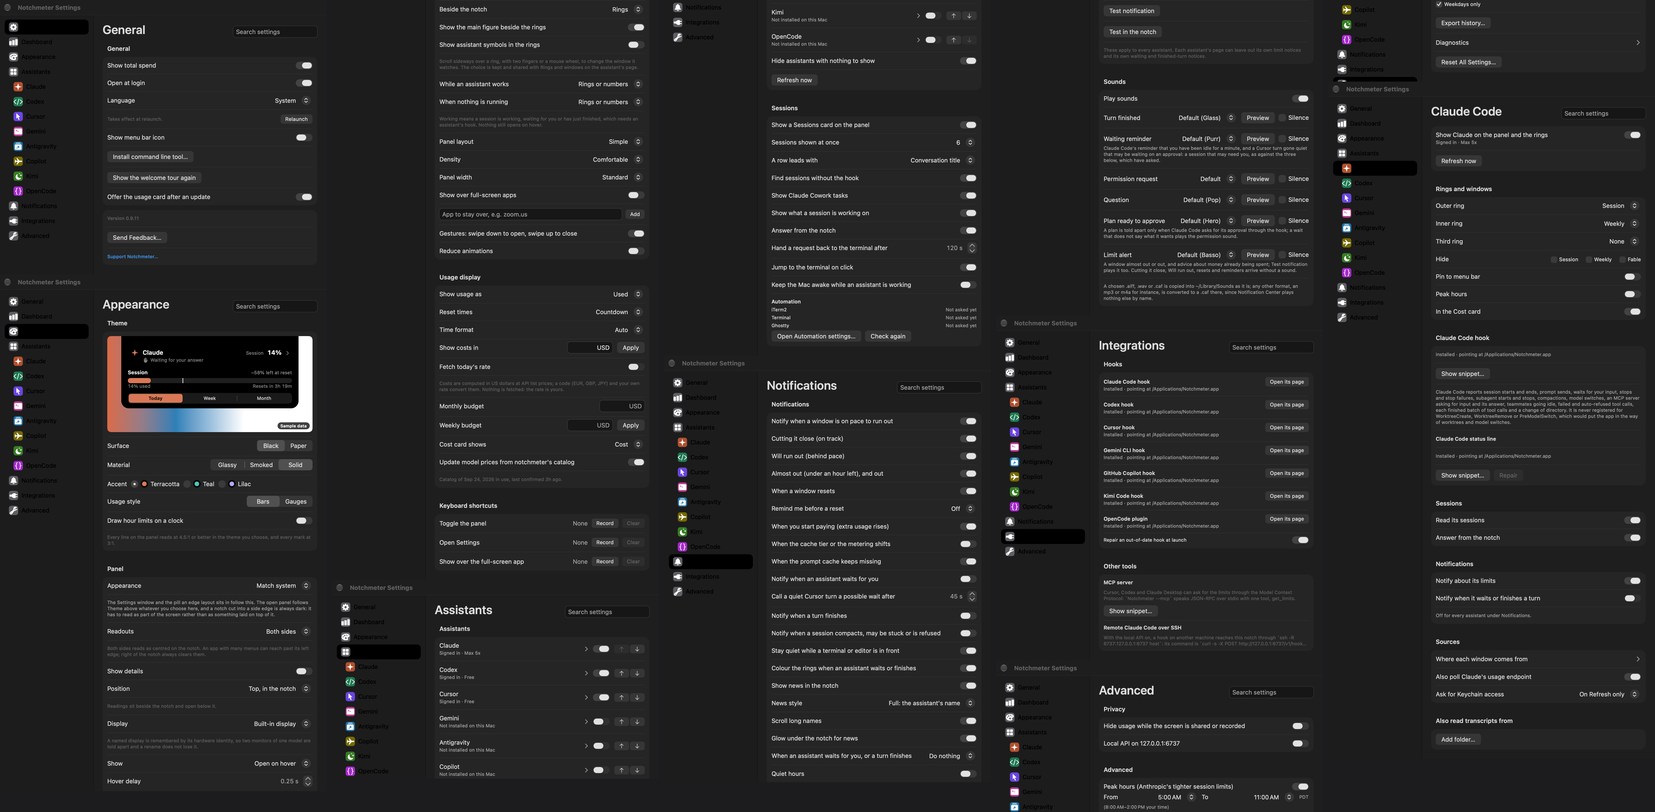
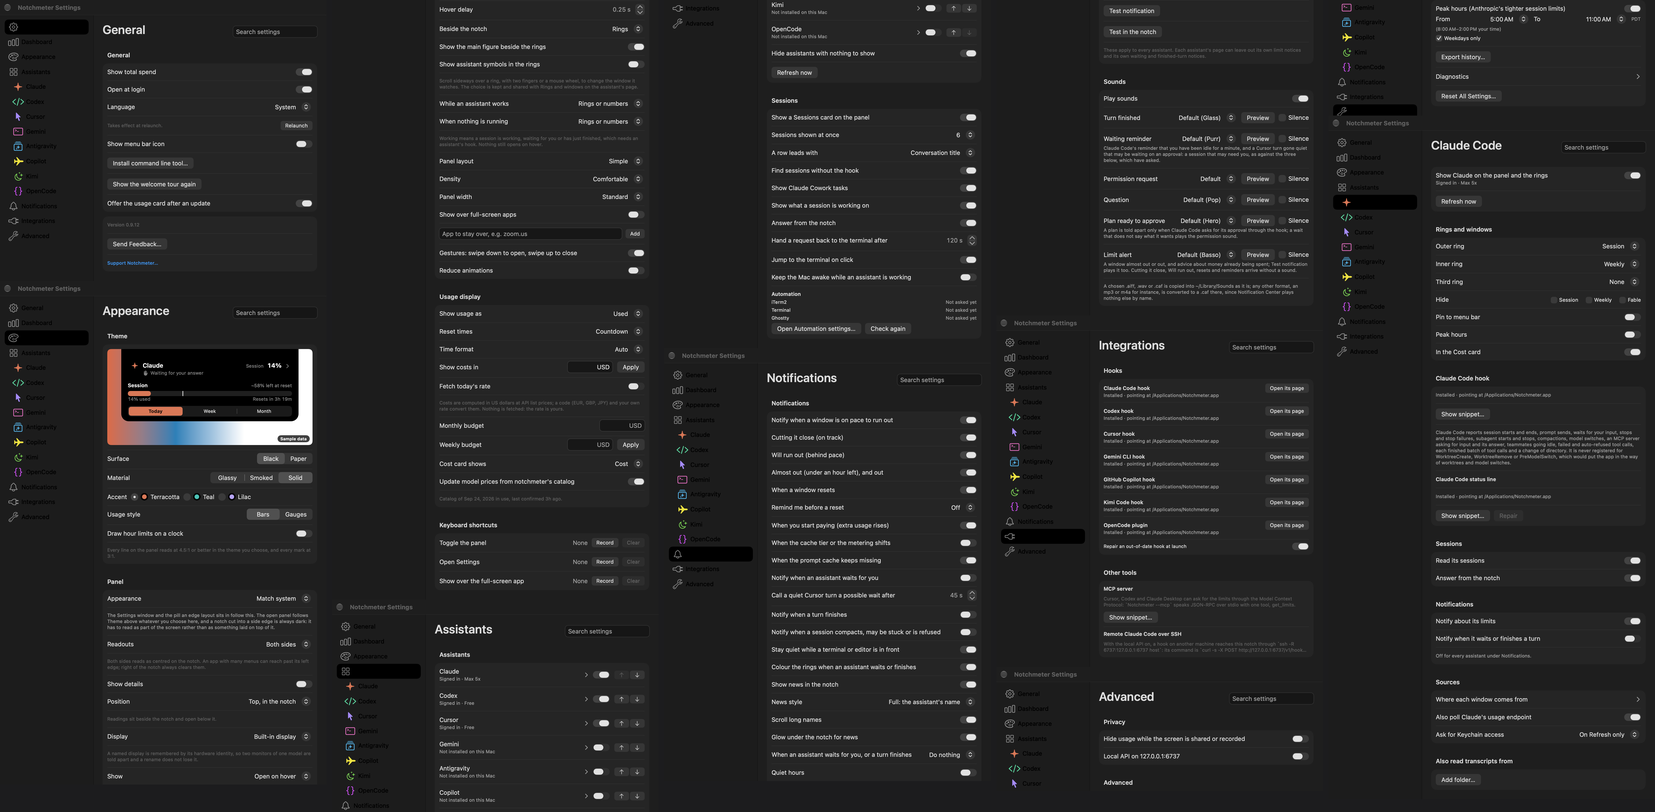
Notchmeter 0.9.12
Claude-Session: https://claude.ai/code/session_01BmUk8Pcie3UzytbtYBUh3s

diff --git a/site/guides/index.html b/site/guides/index.html
@@ -52,27 +52,27 @@
       <a class="guide-card" href="claude-code-cost-estimate-vs-bill.html">
         <span class="q">Why your Claude Code cost estimate doesn't match your bill</span>
         <span class="what">Every rule behind the estimate, its primary sources, and the seven places it is known to differ from what Anthropic bills.</span>
-        <span class="when">24 September 2026 · Tested on Notchmeter 0.9.11</span>
+        <span class="when">24 September 2026 · Tested on Notchmeter 0.9.12</span>
       </a>
       <a class="guide-card" href="will-you-run-out-before-the-reset.html">
         <span class="q">Will you run out before the window resets?</span>
         <span class="what">Pace instead of percentage, a run-out range from your own recent hours, and what Claude's peak hours change.</span>
-        <span class="when">24 September 2026 · Tested on Notchmeter 0.9.11</span>
+        <span class="when">24 September 2026 · Tested on Notchmeter 0.9.12</span>
       </a>
       <a class="guide-card" href="which-assistant-should-get-this-task.html">
         <span class="q">Which assistant should get this task?</span>
         <span class="what">Switch models before tools, wait when the reset is close, and route by the room each plan has left.</span>
-        <span class="when">24 September 2026 · Tested on Notchmeter 0.9.11</span>
+        <span class="when">24 September 2026 · Tested on Notchmeter 0.9.12</span>
       </a>
       <a class="guide-card" href="prompt-cache-cost.html">
         <span class="q">How much is your prompt cache actually costing you?</span>
         <span class="what">What a cache miss costs against a hit, the four causes Claude Code reports, and the tier shift nobody mentions.</span>
-        <span class="when">24 September 2026 · Tested on Notchmeter 0.9.11</span>
+        <span class="when">24 September 2026 · Tested on Notchmeter 0.9.12</span>
       </a>
       <a class="guide-card" href="cursor-copilot-antigravity-limits.html">
         <span class="q">Cursor, Copilot and Antigravity limits in one place</span>
         <span class="what">Three vendors, three ideas of what a limit is: what each figure is, where it comes from, and what is never shown as zero.</span>
-        <span class="when">24 September 2026 · Tested on Notchmeter 0.9.11</span>
+        <span class="when">24 September 2026 · Tested on Notchmeter 0.9.12</span>
       </a>
     </div>
 
@@ -81,12 +81,12 @@
       <a class="guide-card" href="claude-code-notifications-not-working.html">
         <span class="q">Claude Code notifications not working?</span>
         <span class="what">Fix Claude Code's own notifications first, then what a hook adds, how to fix one that went quiet, and when not to install it.</span>
-        <span class="when">24 September 2026 · Tested on Notchmeter 0.9.11</span>
+        <span class="when">24 September 2026 · Tested on Notchmeter 0.9.12</span>
       </a>
       <a class="guide-card" href="monitor-coding-agents-without-config-writes.html">
         <span class="q">Monitoring coding agents without letting an app write to your config</span>
         <span class="what">The meters write nothing; the hook is added only on your click, after a backup. What each tier can know.</span>
-        <span class="when">24 September 2026 · Tested on Notchmeter 0.9.11</span>
+        <span class="when">24 September 2026 · Tested on Notchmeter 0.9.12</span>
       </a>
     </div>
 
@@ -95,7 +95,7 @@
       <a class="guide-card" href="macos-agent-notch-apps-compared.html">
         <span class="q">Every macOS agent-notch app compared (2026)</span>
         <span class="what">Ten other apps, their licences, prices and star counts as of 24 September 2026, and where each one beats Notchmeter.</span>
-        <span class="when">24 September 2026 · Tested on Notchmeter 0.9.11</span>
+        <span class="when">24 September 2026 · Tested on Notchmeter 0.9.12</span>
       </a>
     </div>
   </div>

diff --git a/site/guides/monitor-coding-agents-without-config-writes.html b/site/guides/monitor-coding-agents-without-config-writes.html
@@ -47,7 +47,7 @@
       <p class="lede">Most apps that watch coding agents do it by putting a command into the agent's settings file, and several do it on first launch without asking. That file also holds your permissions, your hooks and your status line. Here is what you can know without anything being written, what a hook adds, and exactly what is written, where, when you decide to add one.</p>
       <ul class="meta-strip">
         <li>Published <time datetime="2026-09-24">24 September 2026</time></li>
-        <li class="stamp">Tested on Notchmeter 0.9.11</li>
+        <li class="stamp">Tested on Notchmeter 0.9.12</li>
         <li>Other apps' READMEs read 2026-09-24</li>
       </ul>
     </div>

diff --git a/site/guides/macos-agent-notch-apps-compared.html b/site/guides/macos-agent-notch-apps-compared.html
@@ -47,7 +47,7 @@
       <p class="lede">At least ten apps now put coding agents in or beside the MacBook notch, every one of them released or updated this year. Notchmeter is one of them, and this page is ours, so read it with that in mind. It is written to be the fair one: every app below does something better than Notchmeter does, and its entry says what.</p>
       <ul class="meta-strip">
         <li>Published <time datetime="2026-09-24">24 September 2026</time></li>
-        <li class="stamp">Tested on Notchmeter 0.9.11</li>
+        <li class="stamp">Tested on Notchmeter 0.9.12</li>
         <li>Stars read from GitHub on 2026-09-24</li>
       </ul>
     </div>

diff --git a/site/guides/claude-code-cost-estimate-vs-bill.html b/site/guides/claude-code-cost-estimate-vs-bill.html
@@ -47,7 +47,7 @@
       <p class="lede">The dollar figure in Claude Code's <code>/usage</code>, in its status line and in Notchmeter's Cost card is worked out on your Mac from token counts and a price table. It is an estimate by construction. Here is exactly how Notchmeter's is built, where it comes from, and every place it is known to part company with the bill.</p>
       <ul class="meta-strip">
         <li>Published <time datetime="2026-09-24">24 September 2026</time></li>
-        <li class="stamp">Tested on Notchmeter 0.9.11</li>
+        <li class="stamp">Tested on Notchmeter 0.9.12</li>
         <li>Sources read 2026-09-01</li>
       </ul>
     </div>

diff --git a/site/guides/cursor-copilot-antigravity-limits.html b/site/guides/cursor-copilot-antigravity-limits.html
@@ -47,7 +47,7 @@
       <p class="lede">Three vendors, three ideas of what a limit is. Cursor bills a cycle in dollars, GitHub counts AI credits by the month, and Google meters Antigravity and Gemini CLI in quota windows with no money in them at all. Here is how each is read, what each figure actually is, and how they end up side by side.</p>
       <ul class="meta-strip">
         <li>Published <time datetime="2026-09-24">24 September 2026</time></li>
-        <li class="stamp">Tested on Notchmeter 0.9.11</li>
+        <li class="stamp">Tested on Notchmeter 0.9.12</li>
         <li>Vendor terms read 2026-09-20 and 2026-09-24</li>
       </ul>
     </div>

diff --git a/site/guides/prompt-cache-cost.html b/site/guides/prompt-cache-cost.html
@@ -47,7 +47,7 @@
       <p class="lede">Prompt caching is why a long Claude Code session costs a fraction of what its token count suggests. It is also where some of the day's most expensive turns hide: a cache miss writes back what the cache already held, at a write rate, instead of reading it at a tenth of the input price.</p>
       <ul class="meta-strip">
         <li>Published <time datetime="2026-09-24">24 September 2026</time></li>
-        <li class="stamp">Tested on Notchmeter 0.9.11</li>
+        <li class="stamp">Tested on Notchmeter 0.9.12</li>
         <li>Rates from Anthropic's pricing page, 2026-09-01</li>
       </ul>
     </div>

diff --git a/site/guides/claude-code-notifications-not-working.html b/site/guides/claude-code-notifications-not-working.html
@@ -47,7 +47,7 @@
       <p class="lede">When Claude Code stops for a permission and nothing tells you, the fix is usually in your terminal, not in another app. Start there. If you then want more than a banner, this is what a hook adds, how to fix one that has gone quiet, and when you are better off without it.</p>
       <ul class="meta-strip">
         <li>Published <time datetime="2026-09-24">24 September 2026</time></li>
-        <li class="stamp">Tested on Notchmeter 0.9.11</li>
+        <li class="stamp">Tested on Notchmeter 0.9.12</li>
         <li>Claude Code docs read 2026-09-24</li>
       </ul>
     </div>

diff --git a/site/guides/which-assistant-should-get-this-task.html b/site/guides/which-assistant-should-get-this-task.html
@@ -47,7 +47,7 @@
       <p class="lede">If you pay for more than one coding assistant, the question before a long job is rarely "which is best at this". It is "which of them can afford it right now". That second question has an answer you can compute, and this is how Notchmeter computes it.</p>
       <ul class="meta-strip">
         <li>Published <time datetime="2026-09-24">24 September 2026</time></li>
-        <li class="stamp">Tested on Notchmeter 0.9.11</li>
+        <li class="stamp">Tested on Notchmeter 0.9.12</li>
         <li>Rules from Advisor.swift</li>
       </ul>
     </div>

diff --git a/site/guides/will-you-run-out-before-the-reset.html b/site/guides/will-you-run-out-before-the-reset.html
@@ -47,7 +47,7 @@
       <p class="lede">A percentage says how much is gone. It does not say whether the rest will last. Here are the three ways Notchmeter answers that question, from the weakest evidence to the strongest, and the things that can still make the answer wrong.</p>
       <ul class="meta-strip">
         <li>Published <time datetime="2026-09-24">24 September 2026</time></li>
-        <li class="stamp">Tested on Notchmeter 0.9.11</li>
+        <li class="stamp">Tested on Notchmeter 0.9.12</li>
         <li>Rules from docs/accuracy.md</li>
       </ul>
     </div>

diff --git a/docs/features.md b/docs/features.md
@@ -26,7 +26,7 @@ Every meter shows a pace tick (where an even burn would be right now), a project
 
 The rings follow a calm rule ([`Presence.swift`](../Sources/Notchmeter/Presence.swift)): small and dim while every window is under 40 % and on pace, full size once one passes 40 % or runs close to its pace (a ring keeps its assistant's colour however full it gets; the figure beside it and the cap on its end say how close it is; an assistant's second and, when chosen, third rings take companion colours near its own, Cursor's pink and periwinkle inside its purple, so they can be told apart, and none of them is a status colour), and slowly pulsing once one is behind pace, has run out, or an assistant is waiting for you. With an assistant's hook installed and none of its sessions running, its window on pace stays quiet however full it is, and *Hide when idle* shrinks the rings to a dot after 30 quiet minutes. Status never rests on colour alone: pace notes carry a symbol and the rings a cap, a waiting assistant a filled white dot and one that has just finished the same dot with a tick, the status colours are Wong's colour-blind-safe set, every meter has a VoiceOver label, Reduce Motion (or the app's own Reduce animations) is honoured, Increase Contrast brightens the tracks and Reduce Transparency swaps glass for black, and on macOS 26 the edge layouts' floating pill is Liquid Glass, as is the card the panel opens in until another material is chosen (see [Themes](#themes)). The notch cut into a side edge is deliberately never translucent: a shape whose whole claim is to be a hole in the screen cannot have the wallpaper reading through it, so it stays opaque black and always in the dark appearance. The notch layout's panel is opaque black too unless Glassy or Smoked is chosen, and even then the band the hardware notch sits in stays black, so the panel still reads as one shape hanging from the notch; it draws its own blur and tint rather than Liquid Glass, which over that black rendered pale grey.
 
-**Usage Dashboard** (Options menu, ⌘U, or the Dashboard tab in Settings): the account's spend and limits in one window, so the week's shape is read rather than guessed. The range's total leads, in the largest type on the page, with the value line under it in the same card, and daily average, peak day and today beside it (under it in a narrow window), for this week, 30 or 90 days; daily spend stacked by assistant, each in its own colour, with the day under the pointer named in a tip over the chart and a click on a bar pinning that day's figures under it, as many days as you click, in date order, side by side (a second click lets one go, and *Unpin all* or Escape lets them all go; VoiceOver reads each day's bar as one element, with its total and split, and pins it the same way); every live limit drawn on the panel's own meter, with its pace tick and how much a day (or an hour, for the session) lasts to the reset; spend by model, each bar in its assistant's colour, and by project, in the accent chosen under Settings › Appearance › Theme; and a line under each saying where the figures came from. The cards are the panel's, and the window follows the system appearance rather than the panel's theme. It reads only what this account's Notchmeter already holds: nothing is fetched for it, and nothing is shared with any other account on the Mac.
+**Usage Dashboard** (Options menu, ⌘U, or the Dashboard tab in Settings): the account's spend and limits in one window, so the week's shape is read rather than guessed. The range's total leads, in the largest type on the page, with the value line under it in the same card, and daily average, peak day and today beside it (under it in a narrow window), for this week, 30 or 90 days; daily spend stacked by assistant, each in its own colour, with the day under the pointer named in a tip over the chart and a click on a bar pinning that day's figures under it, as many days as you click, in date order, side by side (a second click lets one go, and *Unpin all* or Escape lets them all go; VoiceOver reads each day's bar as one element, with its total and split, and pins it the same way); every live limit drawn on the panel's own meter, with its pace tick and how much a day (or an hour, for the session) lasts to the reset; spend by model, each bar in its assistant's colour, and by project, in the accent chosen under Settings › Appearance › Theme; and a line under each saying where the figures came from. The cards are the panel's, and the window follows the system appearance rather than the panel's theme: under Dark it stands on the panel's black since 0.9.12, under Light on the system's white. It reads only what this account's Notchmeter already holds: nothing is fetched for it, and nothing is shared with any other account on the Mac.
 
 **The value line.** Under the Cost card's legend, on the Simple panel's Cost row when no money advice takes the line, and in the dashboard's Total card, under the total: *"30 days: $412 of API-equivalent value on the $200 Claude Max 20x plan · 2.1x (estimate)"*. The range's spend, which on a subscription is what the same work would have cost at API list price, against what the spending assistants' plans cost over the range, from the prices the vendors publish ([docs/accuracy.md](accuracy.md#plan-value), with the table and the day it was read). A range shorter than a month has no fee of its own, so its line is the thirty days'; ninety days stand against three months of fees only where the records reach that far back; a plan whose price is not published gets no ratio, never a guess. Hidden with the Cost card while the screen is shared.
 
@@ -111,7 +111,7 @@ A bar across the top of the open panel says how many sessions the card lists ("3
 
 Right-click (or Control-click) the rings, or use the **Options** button in the panel's header, for the menu (Refresh now, the visibility, position, readouts and their side, *Copy panel as image*, *Share usage card…*, the command line tool, Open at login, the Usage Dashboard, Settings, updates, *Send Feedback…* and Quit); **Settings…** opens the full window. Settings is a floating window that never takes focus away from the app you are working in, and the panel stays closed while it is open, so the two never overlap.
 
-**Each assistant has its own page in Settings**, listed under Assistants in the sidebar in the order you set, wearing its ring's colour and its card's symbol. Since 0.9.11 the app's own panes wear one graphite tile, so the only colour in the sidebar is the assistants'. Everything about that one assistant is there, in six blocks: whether it is on (with its status and a Refresh now); its **rings and windows** (the ring pickers and the windows its card hides once it has a reading, and until then why it has none, in the words of the status above them; *Pin to menu bar*, *Peak hours*, and *In the Cost card* where it can report spend); its **hook** (where the file stands, the snippet, Add or Repair after a backup, and what the hook reports and cannot, in full; Claude Code's page adds the status line); its **sessions** (*Read its sessions*, and *Answer from the notch* where its hook has an event to answer — Cursor's and Gemini CLI's pages say why they have none); its **notifications** (*Notify about its limits*, which takes its extra-usage and cache or metering banners with it, and *Notify when it waits or finishes a turn*); and its **sources** (*Where each window comes from*, folded until opened: each window of its reading with its source in words, the login it reads, and the requests it makes, as [accuracy.md](accuracy.md#how-it-reads-each-tool) lists them; then the second reads it alone offers, and on Claude Code's page the Keychain policy and the extra transcript folders). The four per-assistant switches sit under the app-wide ones rather than replacing them: *Answer from the notch* under Assistants › Sessions and the kinds of notice under Notifications still decide for every assistant, a page can only leave its own assistant out, and a switch the app-wide one has turned off reads off, disabled, with a line saying where. *Read its sessions* off drops that assistant's hook events before the session tracker sees them: its meter still refreshes on them (at once for a rate limit or a quota resume, as when they are read), and nothing else is kept — no row, no wait or finish on its ring, no news, no notice, no request on the panel, no keep-awake — and the sessions already listed go at once. The scan for sessions without the hook leaves that assistant out too, so a row it would have found never comes back at the next scan, and on Claude Code's page the switch covers Claude Cowork's tasks (they are Claude sessions): the Cowork watch stops with it and starts again when it is turned back on, and *Notify when it waits or finishes a turn* off on that page holds back a Cowork task's finished banner as it does a hook's. A search for any row on a page lands on that page, and unfolds *Where each window comes from* when the match is inside it, for that window only, since a typed word is not a choice about how the page should reopen; a row every page has lands on the first assistant in your order. What is the same for every assistant stays on the app's panes: the order, the on/off switches and *Hide assistants with nothing to show* in the Assistants list (a click on a name opens its page), the Sessions switches, *Keep the Mac awake*, the kinds of notice, and the launch-time hook repair with a one-line status per hook under Integrations. `--render-assets` writes `settings.png` with the six panes and Claude Code's page, and `settings-assistants.png` with every assistant's page and its sources open, for review. The app has a real main menu even though it shows no menu bar entry of its own, so ⌘, opens Settings, ⌘Q quits, ⌘W closes Settings, Escape closes Settings or the open panel, ⌘R refreshes, and Cut, Copy, Paste and Select All work in every text field.
+**Each assistant has its own page in Settings**, listed under Assistants in the sidebar in the order you set, wearing its ring's colour and its card's symbol. Since 0.9.12 the sidebar draws line icons with no tile behind them: the app's own panes in grey, each assistant in its ring's colour (in Light, the deeper tone its rings wear on Paper), so the only colour in the sidebar is the assistants'. Everything about that one assistant is there, in six blocks: whether it is on (with its status and a Refresh now); its **rings and windows** (the ring pickers and the windows its card hides once it has a reading, and until then why it has none, in the words of the status above them; *Pin to menu bar*, *Peak hours*, and *In the Cost card* where it can report spend); its **hook** (where the file stands, the snippet, Add or Repair after a backup, and what the hook reports and cannot, in full; Claude Code's page adds the status line); its **sessions** (*Read its sessions*, and *Answer from the notch* where its hook has an event to answer — Cursor's and Gemini CLI's pages say why they have none); its **notifications** (*Notify about its limits*, which takes its extra-usage and cache or metering banners with it, and *Notify when it waits or finishes a turn*); and its **sources** (*Where each window comes from*, folded until opened: each window of its reading with its source in words, the login it reads, and the requests it makes, as [accuracy.md](accuracy.md#how-it-reads-each-tool) lists them; then the second reads it alone offers, and on Claude Code's page the Keychain policy and the extra transcript folders). The four per-assistant switches sit under the app-wide ones rather than replacing them: *Answer from the notch* under Assistants › Sessions and the kinds of notice under Notifications still decide for every assistant, a page can only leave its own assistant out, and a switch the app-wide one has turned off reads off, disabled, with a line saying where. *Read its sessions* off drops that assistant's hook events before the session tracker sees them: its meter still refreshes on them (at once for a rate limit or a quota resume, as when they are read), and nothing else is kept — no row, no wait or finish on its ring, no news, no notice, no request on the panel, no keep-awake — and the sessions already listed go at once. The scan for sessions without the hook leaves that assistant out too, so a row it would have found never comes back at the next scan, and on Claude Code's page the switch covers Claude Cowork's tasks (they are Claude sessions): the Cowork watch stops with it and starts again when it is turned back on, and *Notify when it waits or finishes a turn* off on that page holds back a Cowork task's finished banner as it does a hook's. A search for any row on a page lands on that page, and unfolds *Where each window comes from* when the match is inside it, for that window only, since a typed word is not a choice about how the page should reopen; a row every page has lands on the first assistant in your order. What is the same for every assistant stays on the app's panes: the order, the on/off switches and *Hide assistants with nothing to show* in the Assistants list (a click on a name opens its page), the Sessions switches, *Keep the Mac awake*, the kinds of notice, and the launch-time hook repair with a one-line status per hook under Integrations. `--render-assets` writes `settings.png` with the six panes and Claude Code's page, and `settings-assistants.png` with every assistant's page and its sources open, for review. The app has a real main menu even though it shows no menu bar entry of its own, so ⌘, opens Settings, ⌘Q quits, ⌘W closes Settings, Escape closes Settings or the open panel, ⌘R refreshes, and Cut, Copy, Paste and Select All work in every text field.
 
 | Setting | Choices |
 |---|---|

diff --git a/CHANGELOG.md b/CHANGELOG.md
@@ -2,6 +2,20 @@
 
 Every released version of Notchmeter, newest first. From 0.7.0 each section is that version's release notes, the same text the update alert and the GitHub release carry, copied from [`docs/release-notes/`](docs/release-notes); write a new version's notes there first and add them here. Earlier versions had no notes file, so each has one line taken from the commits its tag points at, and the GitHub release page has the rest.
 
+## [0.9.12](https://github.com/Amir-Hackett/notchmeter/releases/tag/v0.9.12) — 2026-10-02
+
+### Line icons in the Settings sidebar
+
+- The Settings sidebar now draws simple line icons, with no coloured tiles behind them. The app's own sections are grey, and each assistant keeps the colour its rings wear, so the only colour in the list is your assistants'.
+
+### A black Dashboard
+
+- In Dark mode the Usage Dashboard now stands on the same black as the panel it opens from, rather than the system's grey. Light mode is unchanged.
+
+### Fixes
+
+- Settings: the search field keeps a gap under it while the page scrolls, so rows no longer run up against it.
+
 ## [0.9.11](https://github.com/Amir-Hackett/notchmeter/releases/tag/v0.9.11) — 2026-10-02
 
 ### Long names scroll through

diff --git a/docs/release-notes/0.9.12.md b/docs/release-notes/0.9.12.md
@@ -1,0 +1,13 @@
+## Notchmeter 0.9.12
+
+### Line icons in the Settings sidebar
+
+- The Settings sidebar now draws simple line icons, with no coloured tiles behind them. The app's own sections are grey, and each assistant keeps the colour its rings wear, so the only colour in the list is your assistants'.
+
+### A black Dashboard
+
+- In Dark mode the Usage Dashboard now stands on the same black as the panel it opens from, rather than the system's grey. Light mode is unchanged.
+
+### Fixes
+
+- Settings: the search field keeps a gap under it while the page scrolls, so rows no longer run up against it.
